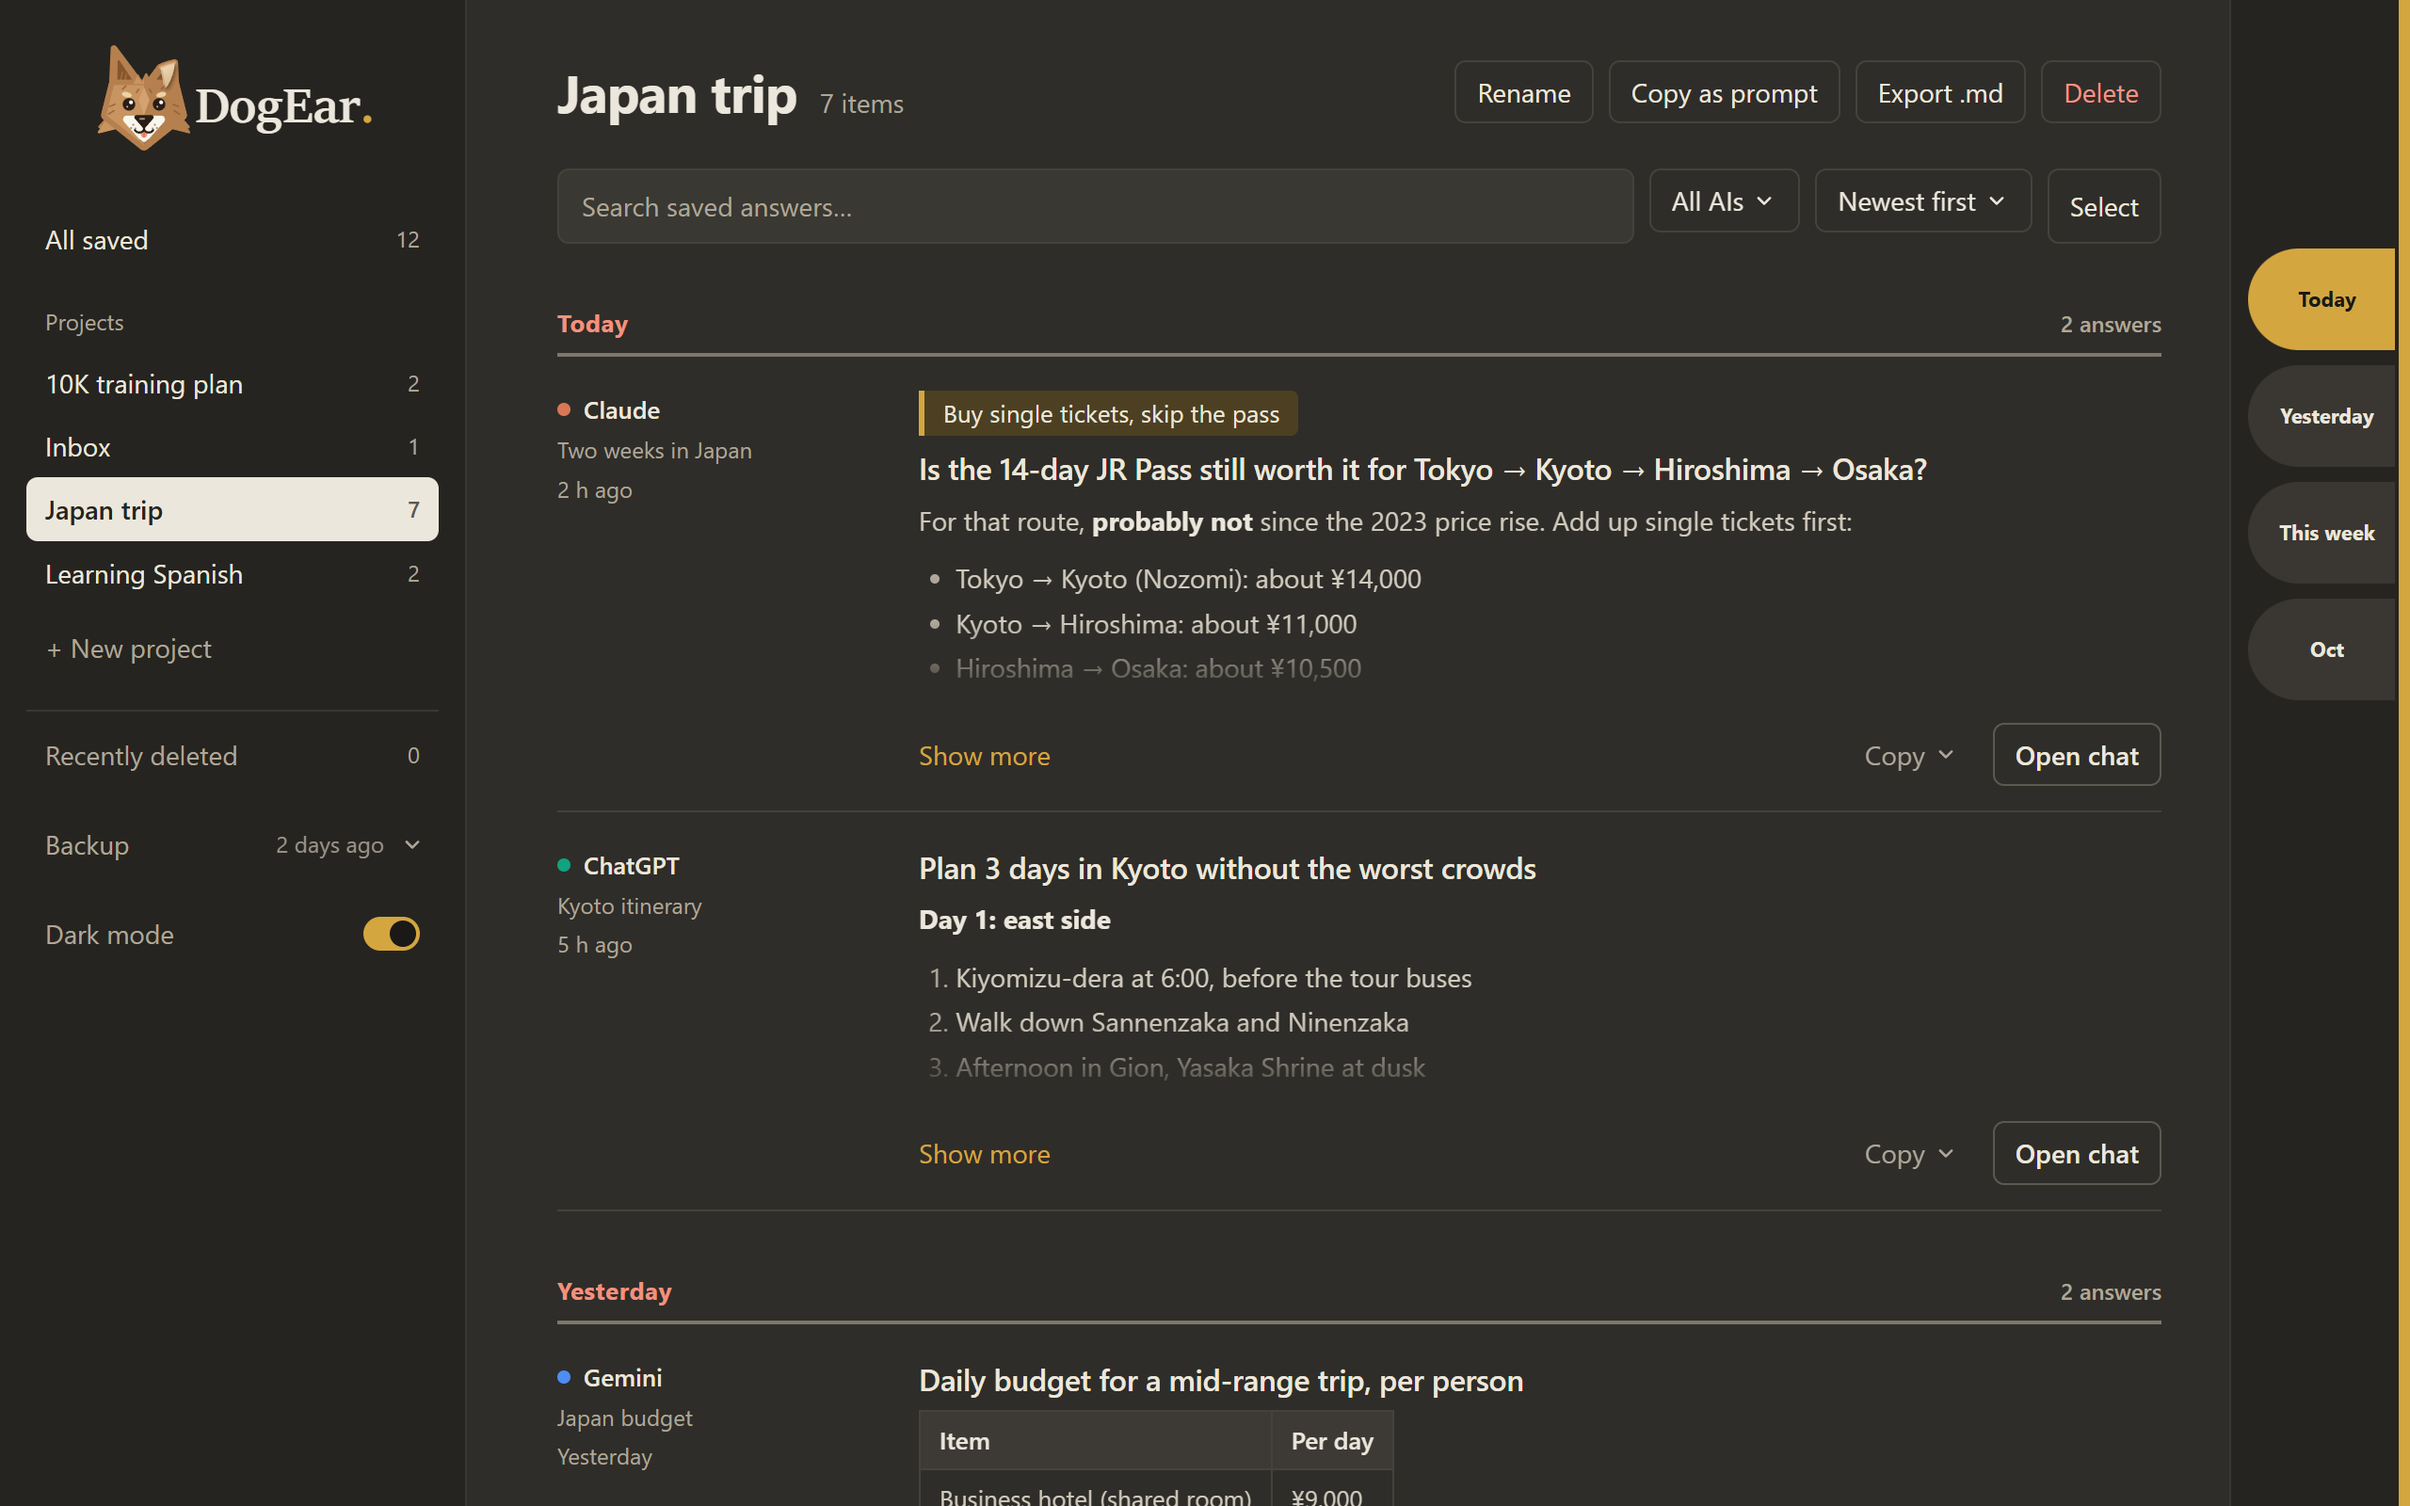
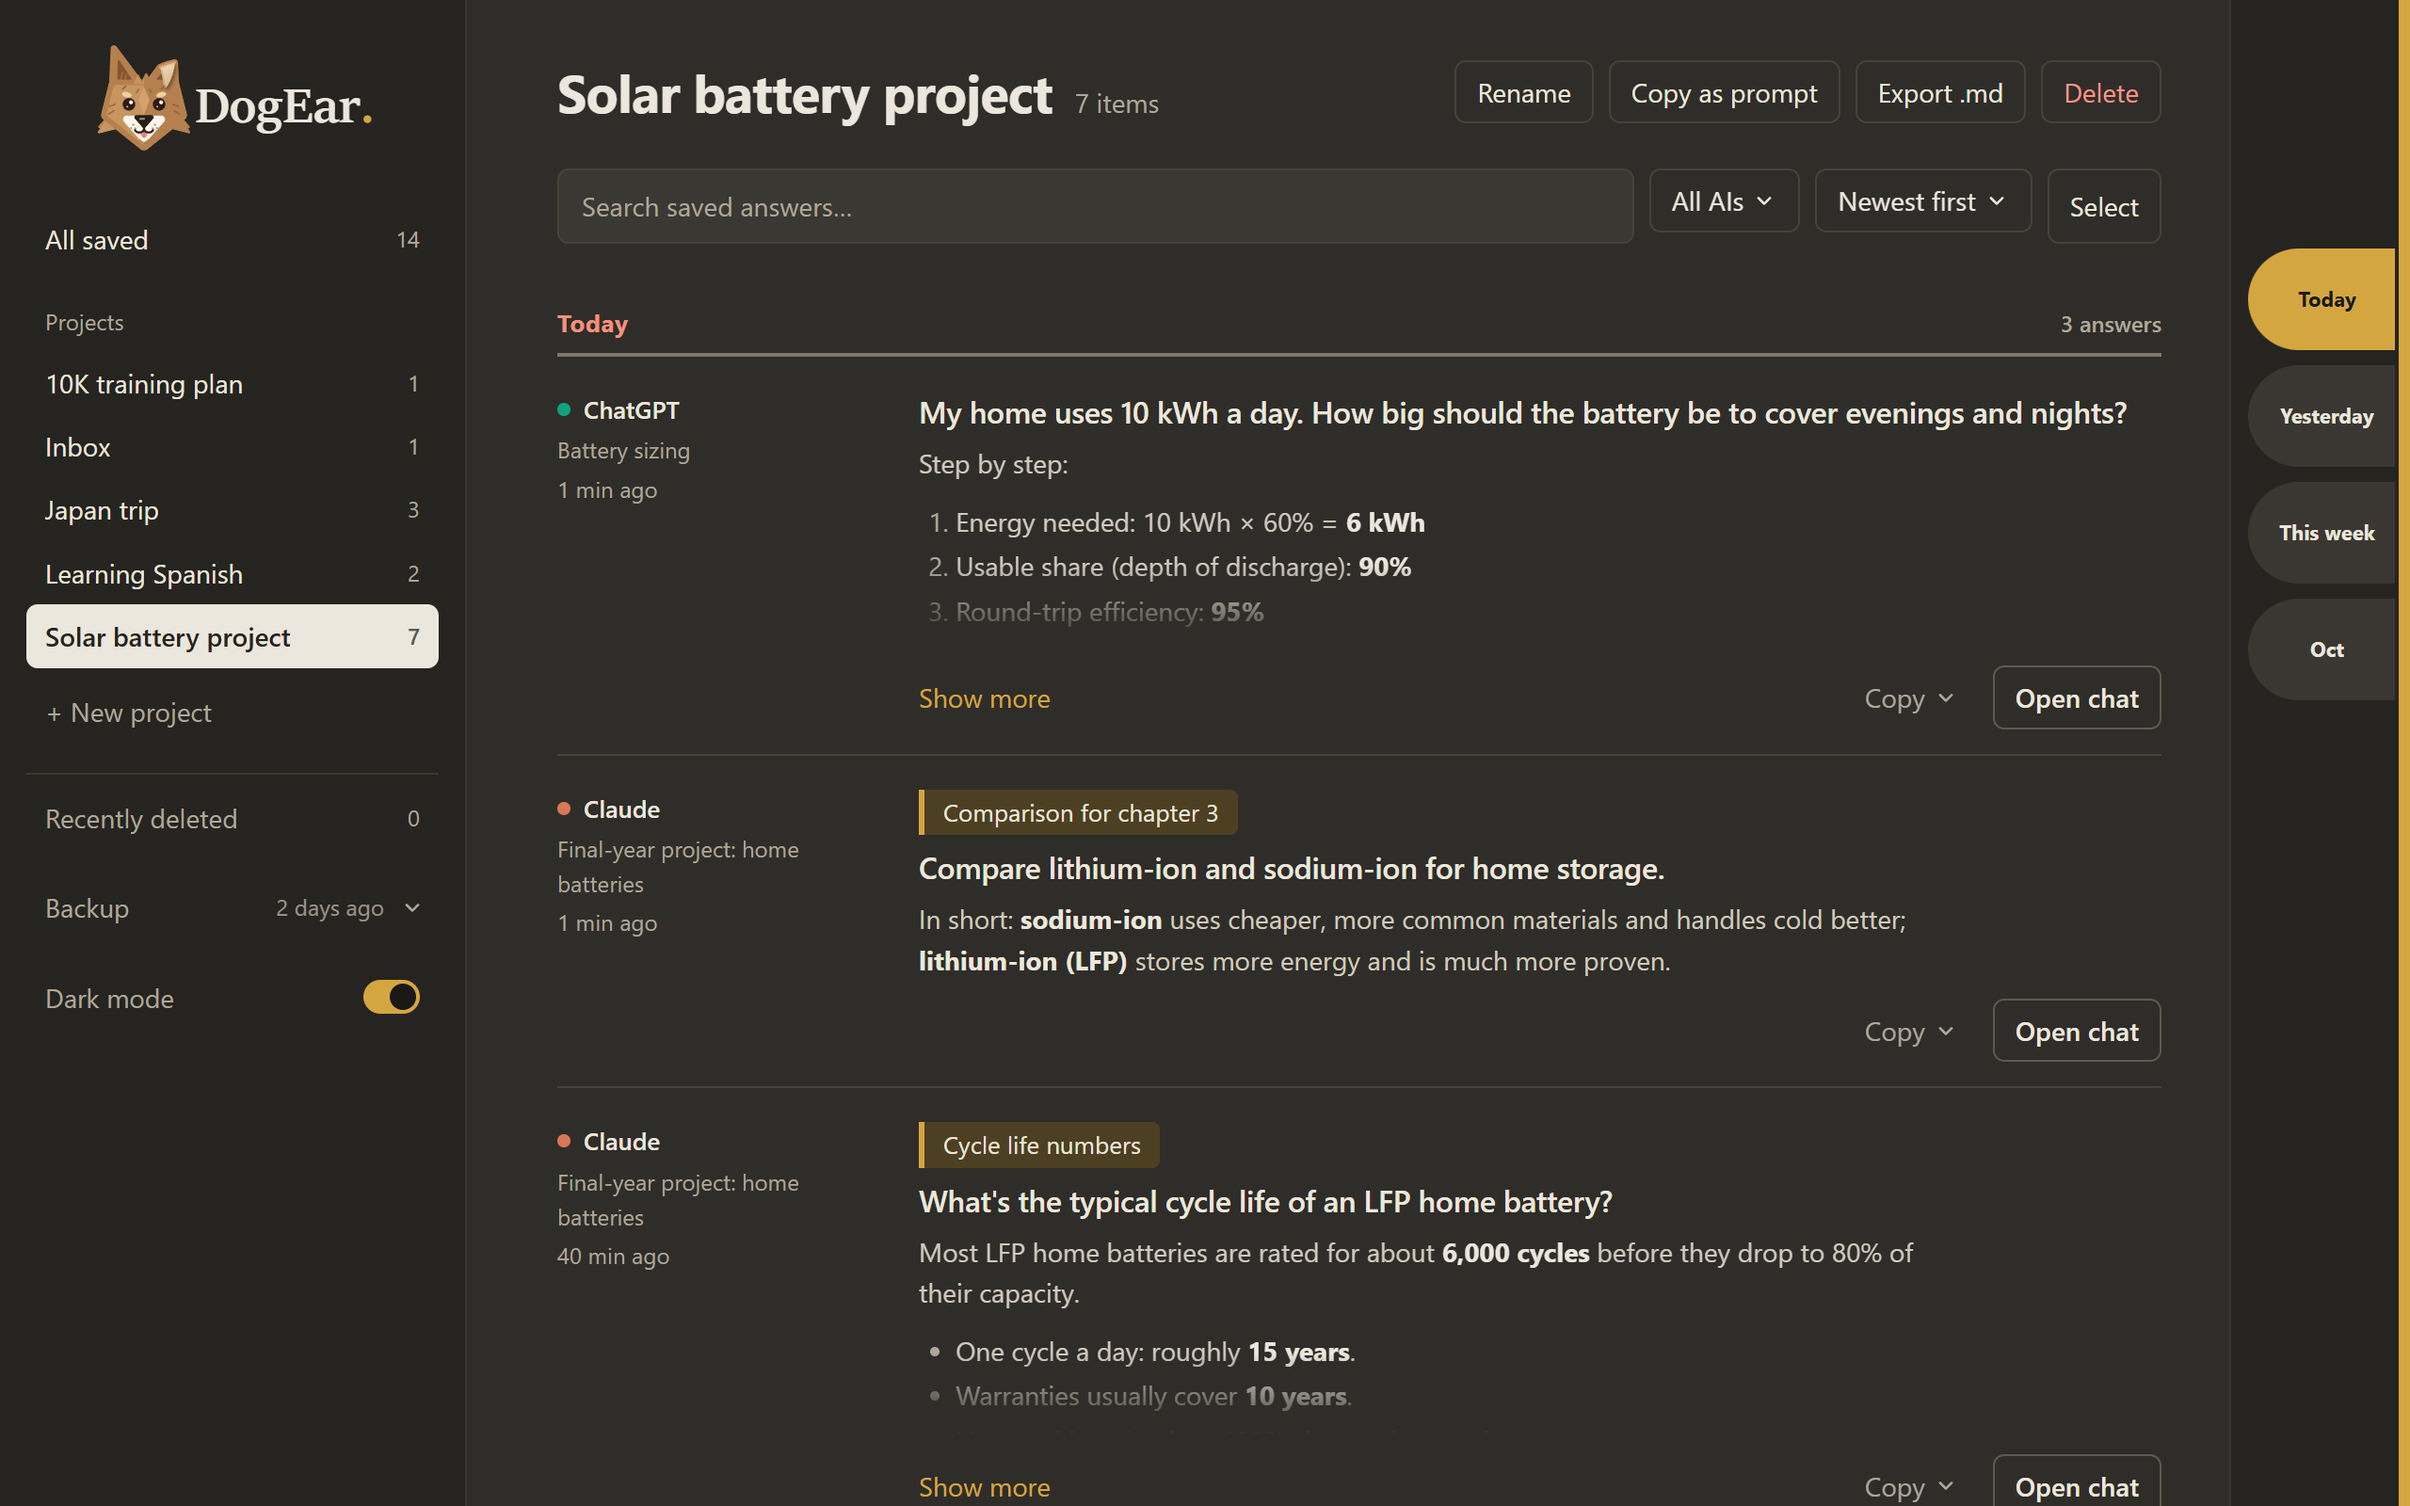
README: research-project demo and screenshots
The demo GIF and the 3 screenshots now follow a final-year research project on home batteries,
with each AI used for what it's good at: Claude explains, ChatGPT does the maths, Perplexity
gives sources, Gemini summarises papers, Grok tracks what people say. Everyday projects (Japan
trip, Learning Spanish) show alongside it.

diff --git a/README.md b/README.md
@@ -10,9 +10,9 @@
 </p>
 
 <p align="center">
-  <img src="docs/demo.gif" alt="DogEar demo: star an answer in Claude with a note, jump back to an older one with Alt+B, save from ChatGPT into the same project, then the Library with answers from five AIs, search and Copy as prompt" width="100%">
+  <img src="docs/demo.gif" alt="DogEar demo: a final-year project on home batteries. Claude's comparison is starred with a note, Alt+B jumps back to an older answer, ChatGPT's sizing maths goes into the same project, and the Library shows each AI's best answers (Perplexity with sources, Gemini's paper summary), then search and Copy as prompt" width="100%">
   <br>
-  <sub>Save from Claude and ChatGPT into one project, jump back to any answer, then search and reuse it all from the Library.</sub>
+  <sub>One research project, each AI for what it does best: Claude to explain, ChatGPT for the maths, Perplexity for sources, all in one Library.</sub>
 </p>
 
 ---
